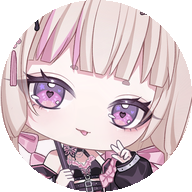
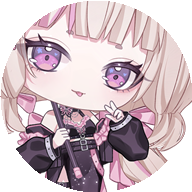
Replace Momo artwork with supplied IMG_9875

diff --git a/tavern-ui/frame-adjust.html b/tavern-ui/frame-adjust.html
@@ -55,7 +55,7 @@ kbd{background:#f0e6f3;border-radius:4px;padding:1px 5px;font-size:11px}
 </div>
 <script>
[1 lines of base64/hex data omitted]
-const PIC='assets/avatar-MOMO.png';
+const PIC='assets/avatar-MOMO.png?v=260';
 const NAMES={vip1:'VIP1 藍調樂手框',vip2:'VIP2 酒館饗宴框',vip3:'VIP3 薔薇緞帶框',vip4:'VIP4 星夜魔法框',vip5:'VIP5 甜心派對框'};
 const DEF={"vip1": {"pic": {"x": 50.2, "y": 51.3, "d": 77}, "doll": {"x": 50.7, "y": 49.6, "d": 74.8}}, "vip2": {"pic": {"x": 50.2, "y": 51.3, "d": 79.9}, "doll": {"x": 53.1, "y": 51.2, "d": 77}}, "vip3": {"pic": {"x": 50.15, "y": 56.45, "d": 74.3}, "doll": {"x": 51.4, "y": 54.9, "d": 73.4}}, "vip4": {"pic": {"x": 50.15, "y": 53.4, "d": 77.2}, "doll": {"x": 52, "y": 52.9, "d": 76.6}}, "vip5": {"pic": {"x": 50.2, "y": 51.3, "d": 79.9}, "doll": {"x": 50.9, "y": 51.6, "d": 75.7}}};
 let S;try{S=JSON.parse(localStorage.getItem('tt_frame_adjust')||'null');}catch(e){}

diff --git a/tavern-ui/index.html b/tavern-ui/index.html
@@ -139,10 +139,10 @@ const ROSTER_PORTRAITS={
  RIRA:{x:65.459,y:36.5,height:565.167,mirrorX:false}
 };
 function artwork(c,eye=false){
-  if(eye){const p=ROSTER_PORTRAITS[c.id];return `<img class="eyes roster-portrait" src="assets/${c.id}-artist-v2.png" alt="${c.id}｜${c.name}的名簿立繪" draggable="false" style="left:${p.x}%;top:${p.y}%;height:${p.height}%;transform:translate(-50%,-50%) scaleX(${p.mirrorX?-1:1})">`;}
+  if(eye){const p=ROSTER_PORTRAITS[c.id];return `<img class="eyes roster-portrait" src="assets/${c.id}-artist-v2.png?v=260" alt="${c.id}｜${c.name}的名簿立繪" draggable="false" style="left:${p.x}%;top:${p.y}%;height:${p.height}%;transform:translate(-50%,-50%) scaleX(${p.mirrorX?-1:1})">`;}
   const box=eye?c.eye:c.view;
   // 繪師第一版透明原圖；立繪僅收整透明留白，名簿另外顯示臉部特寫。
-  return `<svg ${eye?'class="eyes"':''} ${eye&&c.id==='MOMO'?'data-momo-roster="true"':''} viewBox="${box.join(' ')}" preserveAspectRatio="xMidYMid meet" role="img" aria-label="${c.id}｜${c.name}的${eye?'雙眼與嘴巴特寫':'角色立繪'}"><image href="assets/${c.id}-artist-v2.png" width="2000" height="2000"/></svg>`;
+  return `<svg ${eye?'class="eyes"':''} ${eye&&c.id==='MOMO'?'data-momo-roster="true"':''} viewBox="${box.join(' ')}" preserveAspectRatio="xMidYMid meet" role="img" aria-label="${c.id}｜${c.name}的${eye?'雙眼與嘴巴特寫':'角色立繪'}"><image href="assets/${c.id}-artist-v2.png?v=260" width="2000" height="2000"/></svg>`;
 }
 
 $('#roster').innerHTML=CAST.map((c,i)=>`<button class="cast-row" data-cast="${c.id}" style="--accent:${c.color};--pale:${c.pale}" aria-label="認識 ${c.id}｜${c.name}"><span class="cast-watermark" aria-hidden="true">${c.id}</span><div class="identity"><div class="cast-name"><b>${c.name}</b><span>${c.id}</span></div><span class="mood-line">便箋等待更新</span></div>${artwork(c,true)}<span class="row-number">店員 0${i+1}</span><span class="row-arrow" aria-hidden="true">↗</span></button>`).join('');
@@ -163,5 +163,5 @@ const params=new URLSearchParams(location.search);if(params.get('view')==='profi
 <script src="角色演出.js?v=30"></script>
 <script src="縭分層動態.js?v=34"></script>
 
-<script src="live-roster.js?v=238"></script></body>
+<script src="live-roster.js?v=260"></script></body>
 </html>

diff --git a/tavern-ui/live-roster.js b/tavern-ui/live-roster.js
@@ -27,7 +27,7 @@
  function available(p){return rosterMode==='now'?p.on&&!p.busy:!p.card.noBooking;}
  function toggle(cid){const p=people.find(p=>p.cid===cid);if(!p||!available(p)){toast('這位冒險者目前無法接受此類預約');return;}selected.has(cid)?selected.delete(cid):selected.add(cid);syncSelection();}
  function syncSelection(){
-  document.querySelector('#liveCount').textContent='已選 '+selected.size+' 位';{const picked=people.filter(p=>selected.has(p.cid)),box=document.querySelector('#liveNames');box.classList.toggle('live-avatars',picked.length>0);box.innerHTML=picked.length?picked.map(p=>{const c=CAST.find(c=>c.id===p.theme),nm=c?.name||p.name;return p.theme?'<img class="live-av" src="assets/avatar-'+esc(p.theme)+'.png" alt="'+esc(nm)+'" title="'+esc(nm)+'" style="--accent:'+(c?.color||'#b9a3c9')+'">':'<span class="live-av live-av-txt" title="'+esc(nm)+'">'+esc(nm.slice(0,1))+'</span>';}).join(''):'挑選想一起玩的冒險者';}document.querySelector('#liveNext').disabled=!selected.size;
+  document.querySelector('#liveCount').textContent='已選 '+selected.size+' 位';{const picked=people.filter(p=>selected.has(p.cid)),box=document.querySelector('#liveNames');box.classList.toggle('live-avatars',picked.length>0);box.innerHTML=picked.length?picked.map(p=>{const c=CAST.find(c=>c.id===p.theme),nm=c?.name||p.name;return p.theme?'<img class="live-av" src="assets/avatar-'+esc(p.theme)+'.png?v=260" alt="'+esc(nm)+'" title="'+esc(nm)+'" style="--accent:'+(c?.color||'#b9a3c9')+'">':'<span class="live-av live-av-txt" title="'+esc(nm)+'">'+esc(nm.slice(0,1))+'</span>';}).join(''):'挑選想一起玩的冒險者';}document.querySelector('#liveNext').disabled=!selected.size;
   document.querySelectorAll('[data-select-cid]').forEach(b=>{const on=selected.has(b.dataset.selectCid);b.textContent=on?'✓ 已選':'＋選取';b.setAttribute('aria-pressed',String(on));b.closest('.cast-entry').classList.toggle('is-selected',on);});
   if(current){const btn=document.querySelector('#pickCast');btn.textContent=selected.has(current.cid)?'從名單移出':'加入冒險者名單';btn.disabled=!available(current);}
  }

diff --git a/lobby-ui/order-flow.js b/lobby-ui/order-flow.js
@@ -14,7 +14,7 @@
    const base=Math.floor(off/quantity),extra=off%quantity;
    return {unit:cents/scale,total:total/scale,discount:off/scale,amount:(total-off)/scale,shares:Array.from({length:quantity},(_,i)=>({amount:(cents-base-(i<extra?1:0))/scale,discount:(base+(i<extra?1:0))/scale}))};
  }
- const AVN={KABUKI:'蕪',MOMO:'桃',RIRA:'縭'};function chips(){const list=members();return '<div class="of-members">'+(list.length?list.map(p=>{const th=p.theme,nm=(th&&AVN[th])||p.name;return th?'<img class="of-av" src="tavern-ui/assets/avatar-'+esc(th)+'.png" alt="'+esc(nm)+'" title="'+esc(nm)+'">':'<span>'+esc(nm)+'</span>';}).join(''):'<span>不指定冒險者 · 1 位</span>')+'</div>';}
+ const AVN={KABUKI:'蕪',MOMO:'桃',RIRA:'縭'};function chips(){const list=members();return '<div class="of-members">'+(list.length?list.map(p=>{const th=p.theme,nm=(th&&AVN[th])||p.name;return th?'<img class="of-av" src="tavern-ui/assets/avatar-'+esc(th)+'.png?v=260" alt="'+esc(nm)+'" title="'+esc(nm)+'">':'<span>'+esc(nm)+'</span>';}).join(''):'<span>不指定冒險者 · 1 位</span>')+'</div>';}
  function heading(id,kicker,title,step){
    const box=$(id),card=box.querySelector('.shopCard');box.classList.add('tt-order-flow');box.setAttribute('role','dialog');box.setAttribute('aria-modal','true');box.setAttribute('aria-label',title);
    let head=card.querySelector('.of-heading');if(!head){head=document.createElement('div');head.className='of-heading';card.prepend(head);}

diff --git a/lobby.html b/lobby.html
@@ -1679,7 +1679,7 @@ body.artBub.bub3s .npc .bub{
 
 <div id="emptyMsg">酒館剛開張，還沒有闆闆進來坐<br>成為第一位在大廳留下身影的人吧！</div>
 
-<div id="verTag" style="position:fixed;left:10px;bottom:5px;z-index:60;font-size:10px;color:#7A5E8C;background:rgba(255,250,253,.72);padding:1px 8px;border-radius:8px">v259</div>
+<div id="verTag" style="position:fixed;left:10px;bottom:5px;z-index:60;font-size:10px;color:#7A5E8C;background:rgba(255,250,253,.72);padding:1px 8px;border-radius:8px">v260</div>
 <div id="hint2">點地板移動你的小人 · 方向鍵也可以 · 想讓他自己逛可開啟左上角「掛機亂走」</div>
 <button id="joinBtn" onclick="location.href='card.html'">✦ 我也要做闆卡</button>
 
@@ -7653,9 +7653,9 @@ function shake(id){ const el=document.getElementById(id); if(!el) return; el.sty
   tW.addEventListener('click',()=>{ const w=document.getElementById('h2wd'); if(w) w.click(); setTimeout(syncSettings,50); });
 })();
 </script>
-<script src="tavern-ui-bridge.js?v=258"></script>
+<script src="tavern-ui-bridge.js?v=260"></script>
 <script src="lobby-ui/live.js?v=244"></script>
 <script src="lobby-ui/membership.js?v=241"></script>
-<script src="lobby-ui/order-flow.js?v=246"></script>
+<script src="lobby-ui/order-flow.js?v=260"></script>
 </body>
 </html>

diff --git a/tavern-ui-bridge.js b/tavern-ui-bridge.js
@@ -14,7 +14,7 @@
       overlay=document.createElement('div');overlay.id='ttApprovedUI';overlay.hidden=true;
       overlay.setAttribute('role','dialog');overlay.setAttribute('aria-modal','true');overlay.setAttribute('aria-label','Tiny Tavern');
       frame=document.createElement('iframe');frame.title='Tiny Tavern 名簿與時裝間';
-      frame.style.visibility='hidden';frame.src='tavern-ui/index.html?v=258';overlay.append(frame);document.body.append(overlay);
+      frame.style.visibility='hidden';frame.src='tavern-ui/index.html?v=260';overlay.append(frame);document.body.append(overlay);
       frame.onload=()=>{frame.contentWindow.ttLiveOpen?.(pending);frame.style.visibility='visible';};
       overlay.addEventListener('click',e=>{if(e.target===overlay)close();});
     }

diff --git a/UI-UPDATE-v260.md b/UI-UPDATE-v260.md
@@ -1,0 +1,3 @@
+# v260：小 MO 圖片更新
+
+小 MO 立繪替換為使用者提供的 IMG_9875.PNG，2000×2000 原始檔完整複製；名簿與介紹共用新圖，維持原有位置設定。選人及點單的小頭像同步取自新圖，加上新版圖片快取標記。
